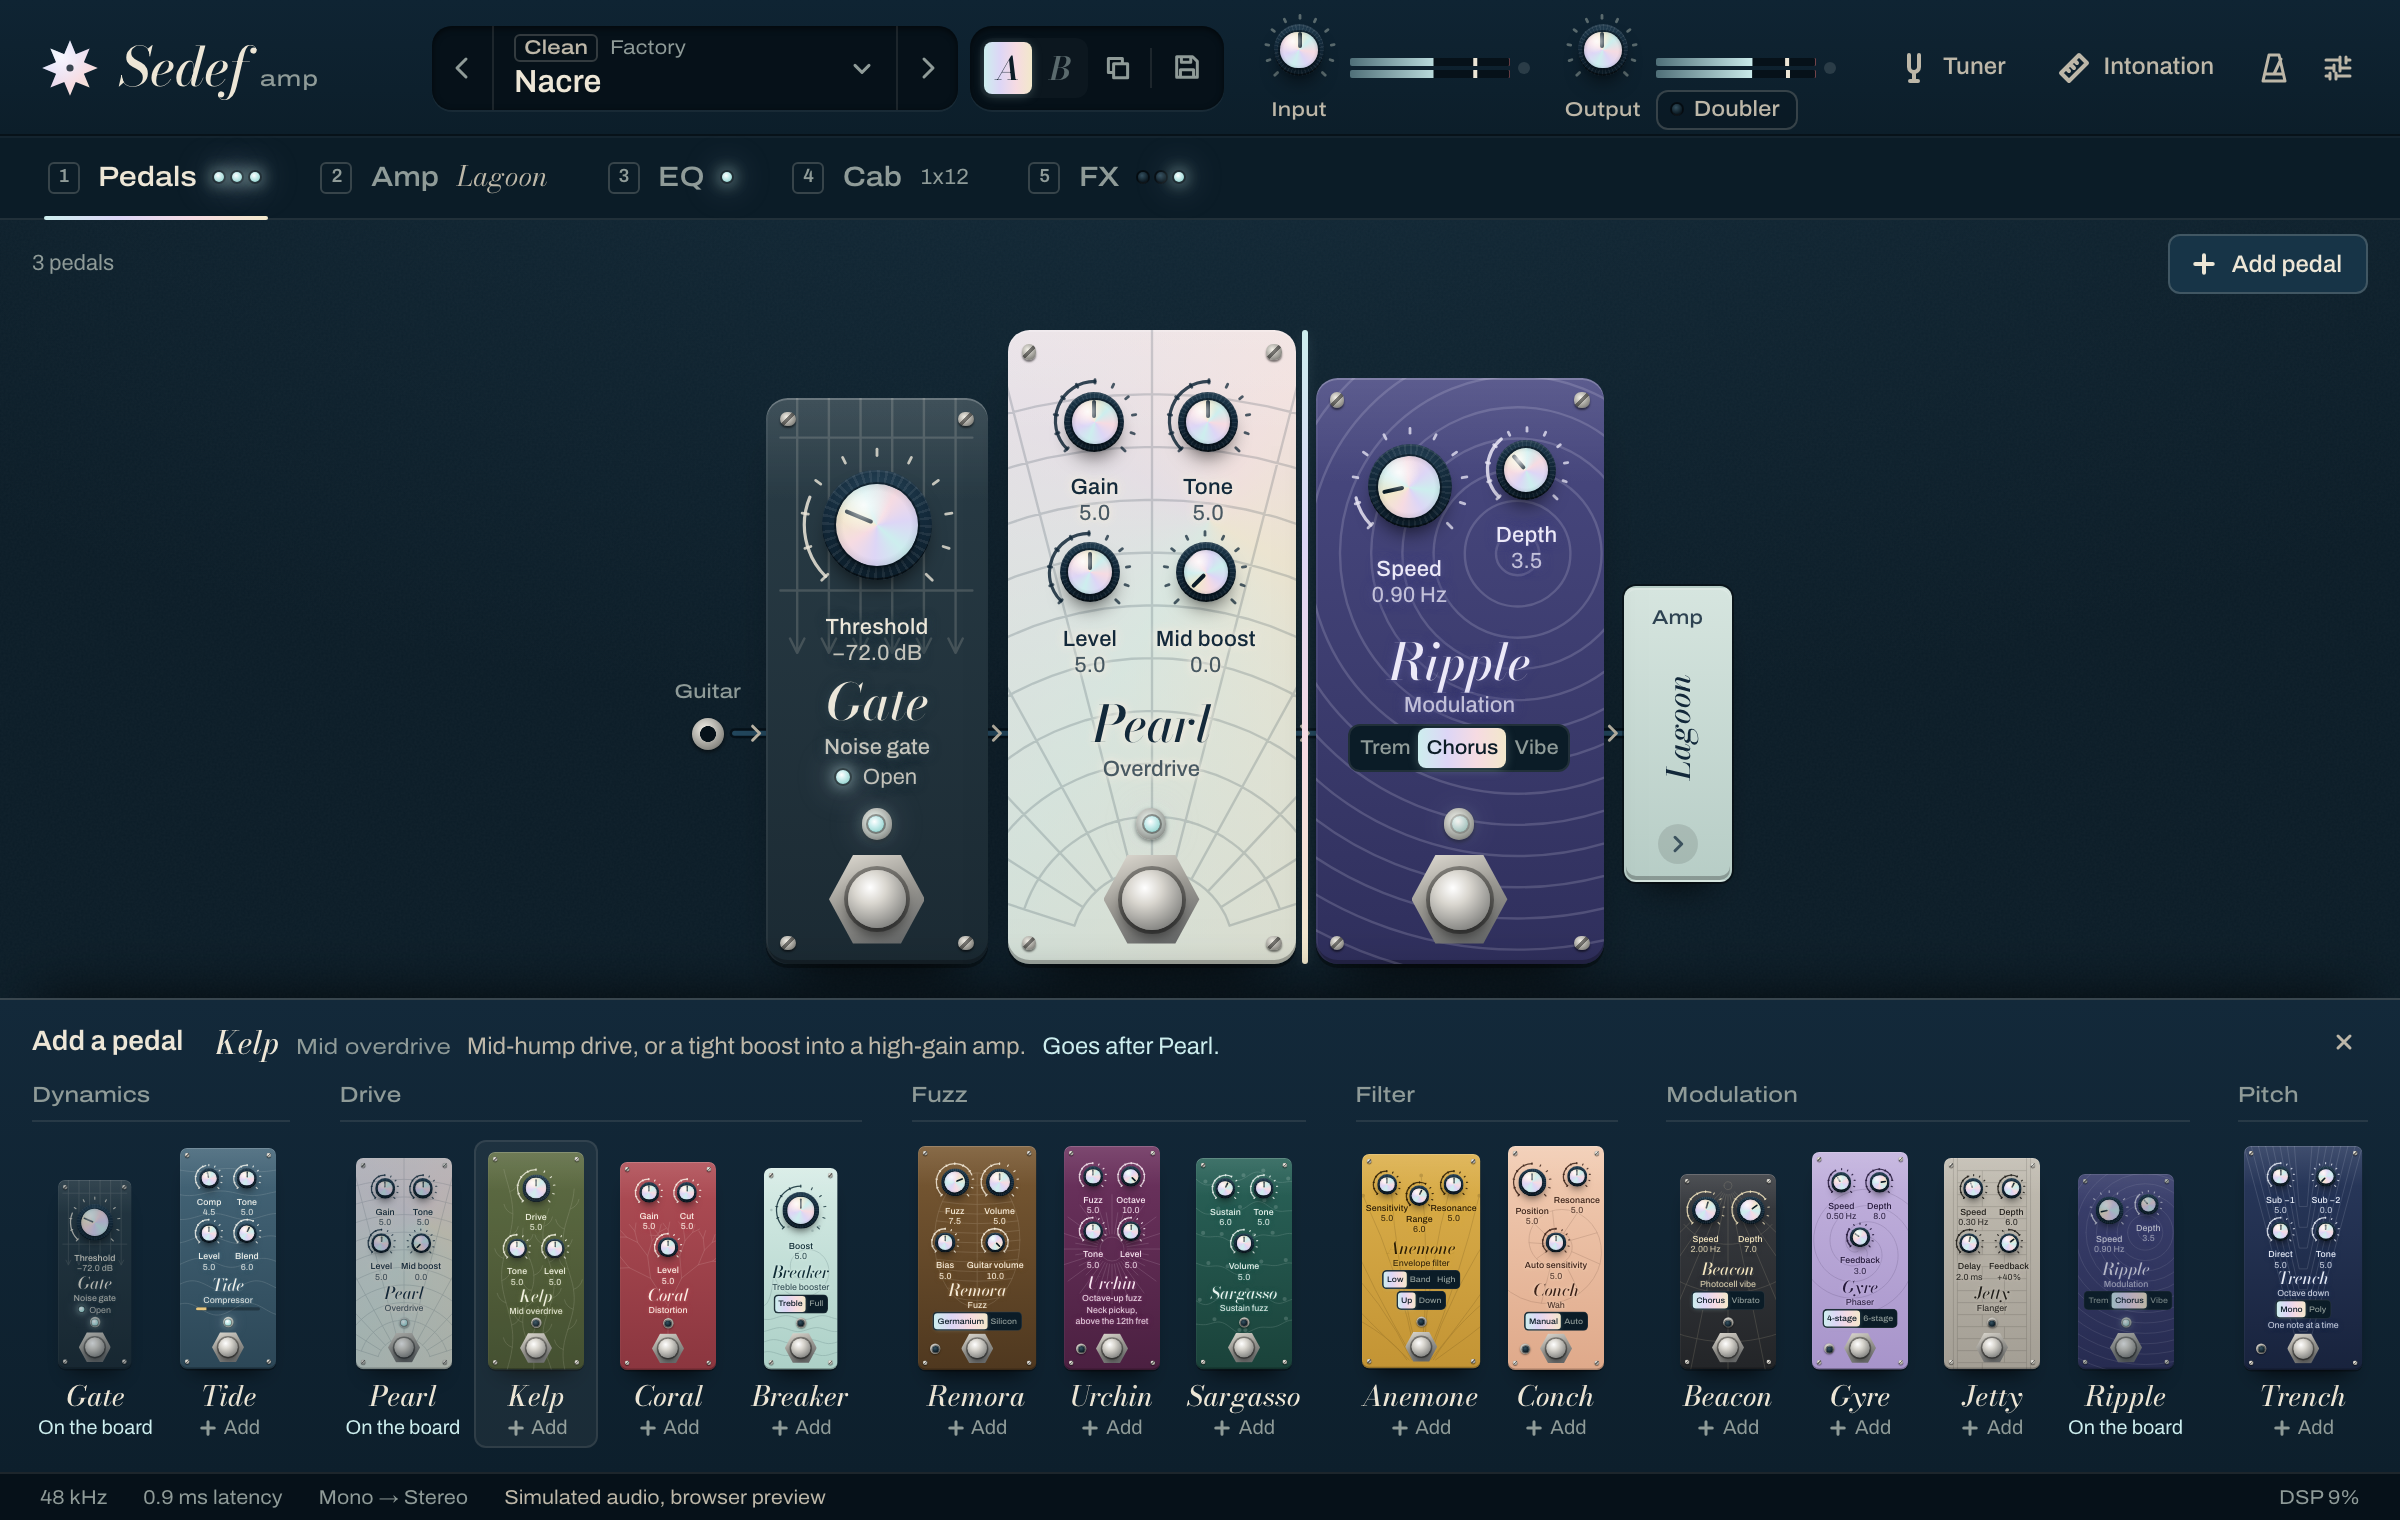
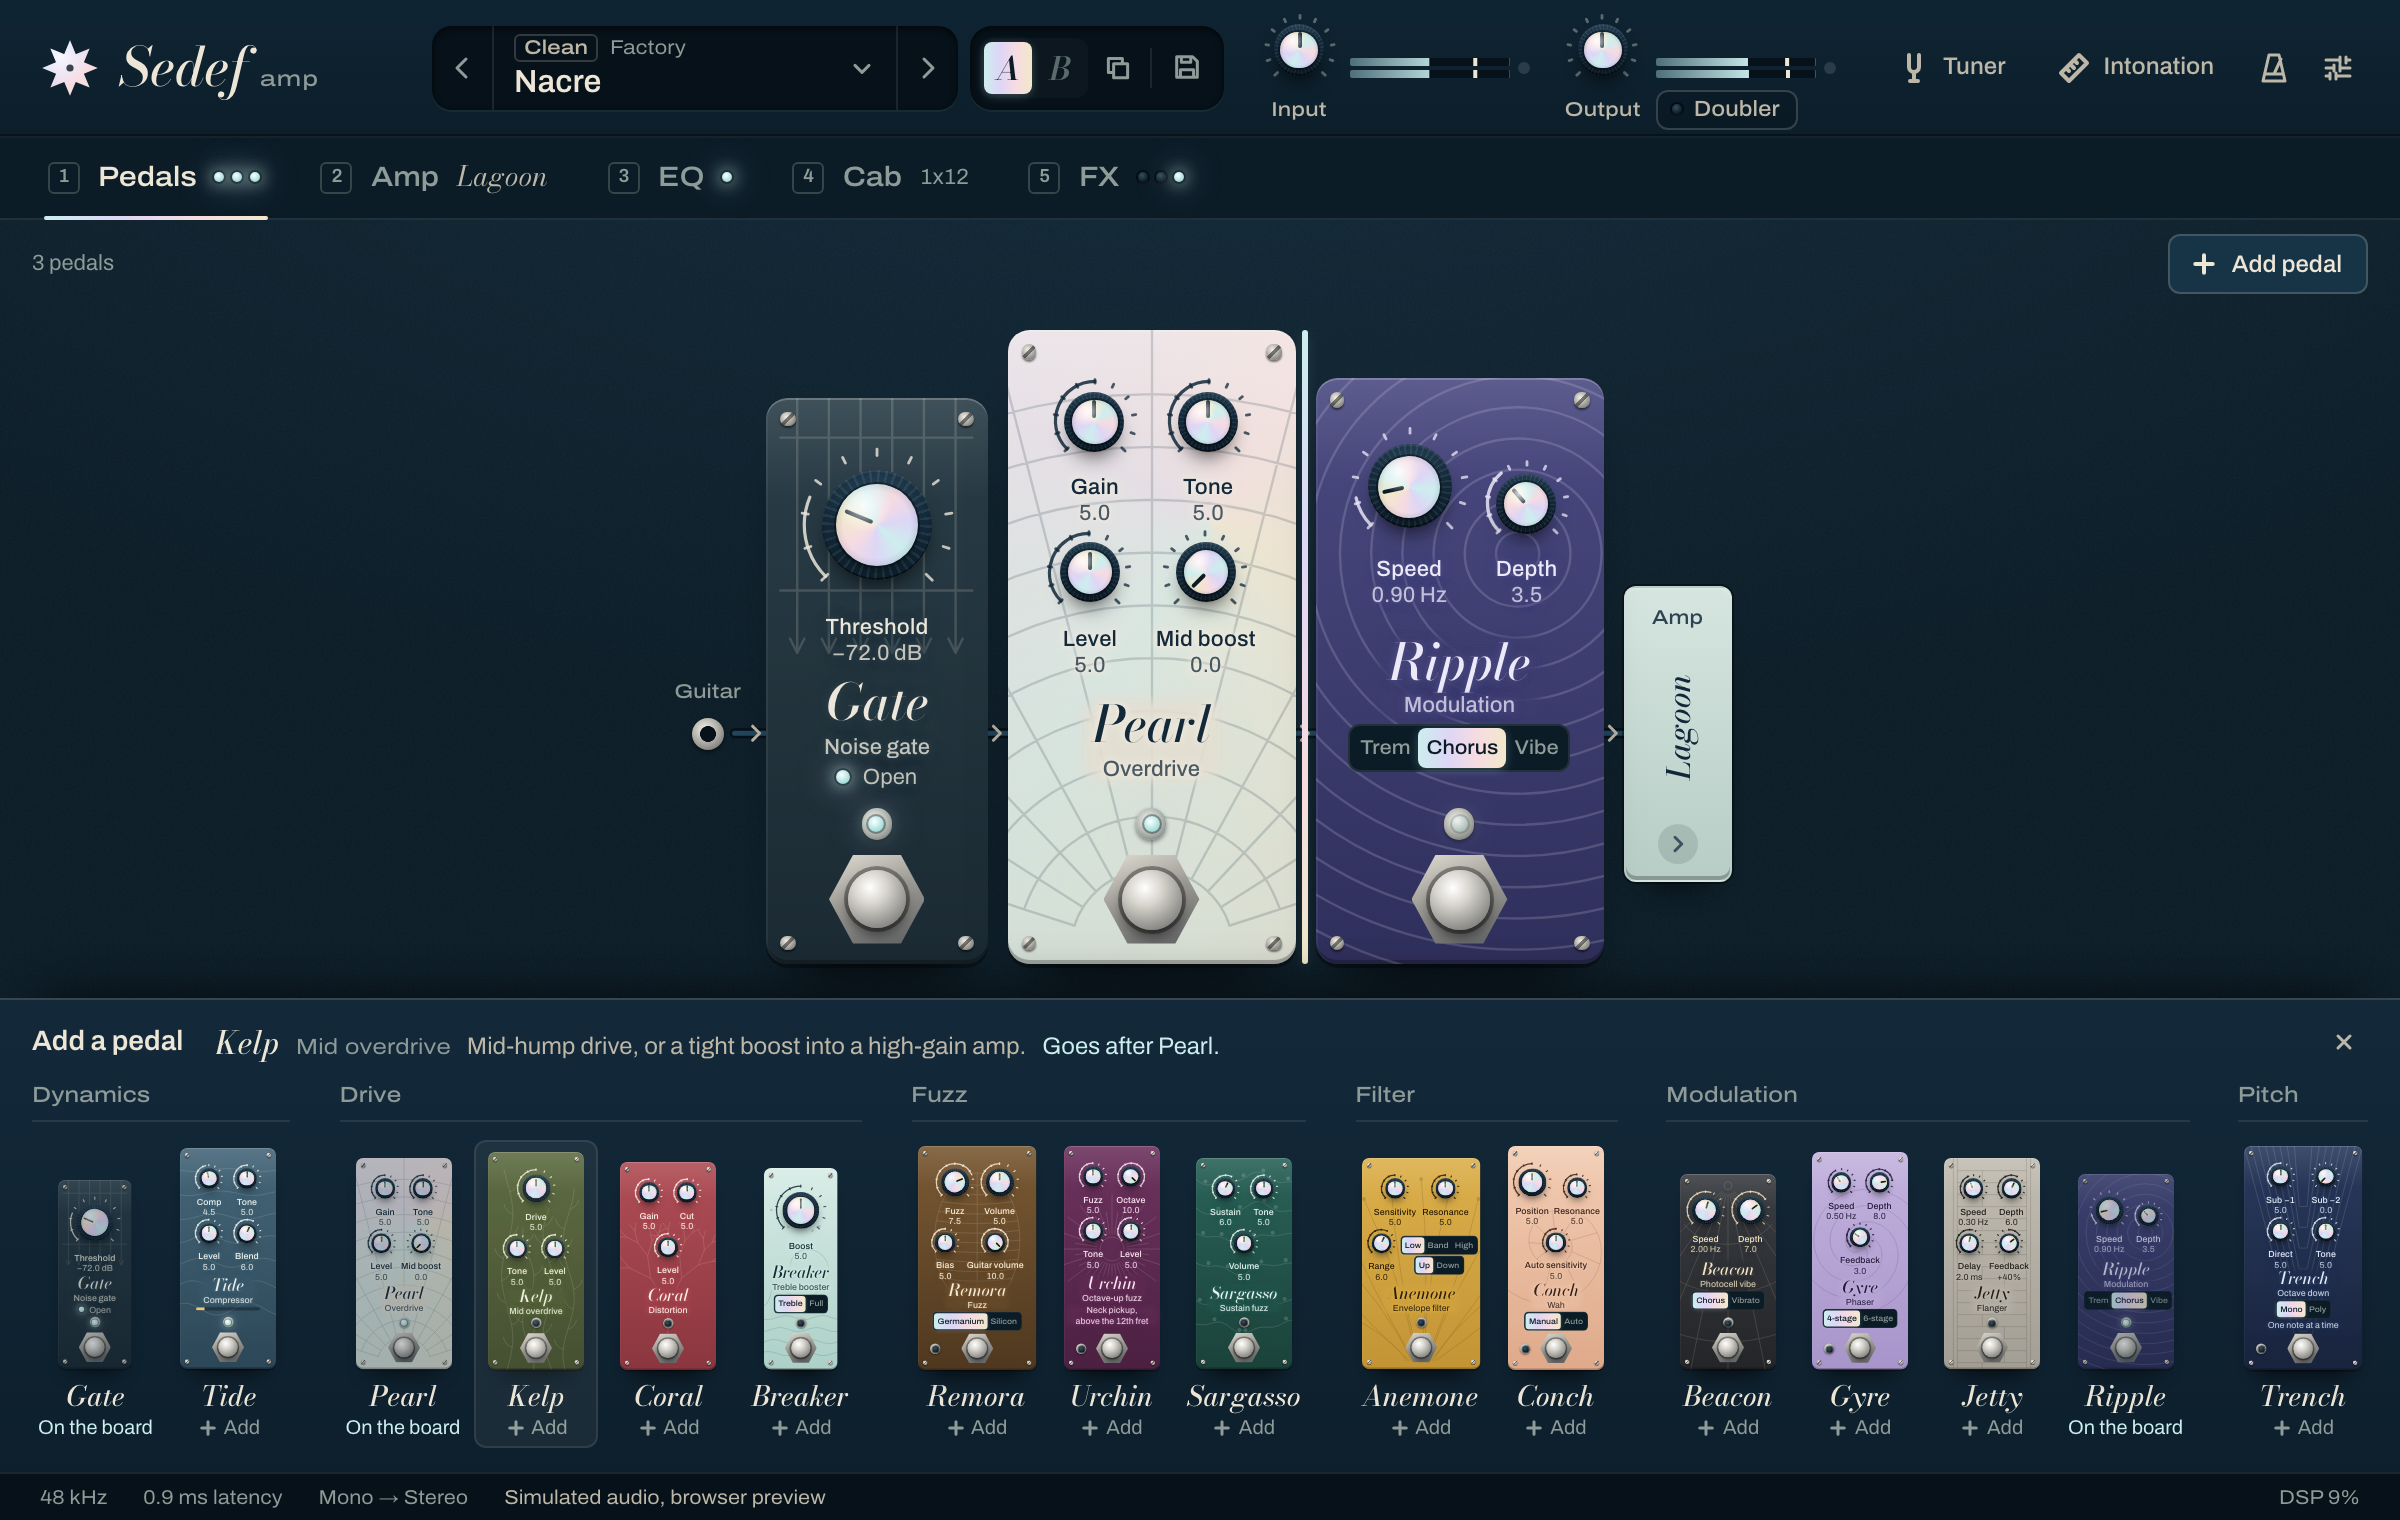
Pedals: Anemone's switches beside its third knob, paired knobs on one line, names on a patch of paint
Anemone's three labels no longer meet: Sensitivity and Resonance on top, Range with
the two switches beside it. A big and a normal knob in one row stand on one line, so
their labels and values read across (Conch, Ripple). The name, kind and hint stand
on a soft patch of the paint, so a figure whose lines run along the lettering fades
out under it at every scale.

Changed region(s): [[0.5625, 0.7421, 0.6875, 0.8658], [0.5938, 0.2783, 0.6562, 0.402], [0.875, 0.773, 0.9062, 0.8039]]

diff --git a/ui/src/features/pedals/Pedal.module.css b/ui/src/features/pedals/Pedal.module.css
@@ -83,14 +83,12 @@
   width: 100%;
 }
 
-/* Two big knobs, or a knob and a lever: closer than an even spread would put them. */
+/* Two knobs of different sizes: closer than an even spread would put them, and standing on one
+   line, so their labels and values read across. */
 .tight {
   justify-content: center;
+  align-items: flex-end;
   gap: calc(6 * var(--u));
-}
-
-.arc > :nth-child(2) {
-  margin-top: calc(14 * var(--u));
 }
 
 /* A knob takes the room of its dial; its label may hang over into the gap beside it. */
@@ -104,8 +102,24 @@
 }
 
 .identity {
+  isolation: isolate;
   margin-top: auto;
   text-align: center;
+}
+
+/* The name stands on a soft patch of the paint: a figure whose lines run along the lettering
+   (waves, strands) fades out under it, where a halo alone leaves them between the letters. */
+.identity::before,
+.hint::before {
+  content: '';
+  position: absolute;
+  z-index: -1;
+  inset: 0 calc(-4 * var(--u));
+  border-radius: calc(6 * var(--u));
+  background: var(--paint-top);
+  background: color-mix(in srgb, var(--paint-top), var(--paint-bottom));
+  filter: blur(3px);
+  opacity: 0.88;
 }
 
 .name {
@@ -130,6 +144,14 @@
   white-space: nowrap;
 }
 
+/* Switches stacked beside a knob, in its row (Anemone). */
+.pedal .row > .stack {
+  display: grid;
+  justify-items: center;
+  align-self: center;
+  row-gap: calc(3 * var(--u));
+}
+
 /* Switches, meters and the playing hint: one group under the name. */
 .status {
   display: grid;
@@ -149,6 +171,8 @@
   line-height: 1.15;
   text-align: center;
   text-wrap: balance;
+  position: relative;
+  isolation: isolate;
 }
 
 /* The lamp over the footswitch, at the bottom of the enclosure. */

diff --git a/ui/src/features/pedals/mods/AnemonePedal.tsx b/ui/src/features/pedals/mods/AnemonePedal.tsx
@@ -1,5 +1,5 @@
 // SPDX-License-Identifier: AGPL-3.0-or-later
-import { Pedal, PedalRow } from '../Pedal';
+import { Pedal, PedalRow, PedalStack } from '../Pedal';
 import { PedalKnob } from '../PedalKnob';
 import { PedalSwitch } from '../PedalSwitch';
 import { MODS_FINISH } from './finishes';
@@ -13,17 +13,17 @@ export function AnemonePedal() {
       kind="Envelope filter"
       enableParam="anemoneEnabled"
       finish={MODS_FINISH.anemone}
-      status={
-        <>
+    >
+      <PedalRow>
+        <PedalKnob param="anemoneSensitivity" label="Sensitivity" />
+        <PedalKnob param="anemoneResonance" label="Resonance" />
+      </PedalRow>
+      <PedalRow set="tight">
+        <PedalKnob param="anemoneRange" label="Range" />
+        <PedalStack>
           <PedalSwitch param="anemoneMode" labels={['Low', 'Band', 'High']} />
           <PedalSwitch param="anemoneDirection" />
-        </>
-      }
-    >
-      <PedalRow set="arc">
-        <PedalKnob param="anemoneSensitivity" label="Sensitivity" />
-        <PedalKnob param="anemoneRange" label="Range" />
-        <PedalKnob param="anemoneResonance" label="Resonance" />
+        </PedalStack>
       </PedalRow>
     </Pedal>
   );

diff --git a/ui/src/features/pedals/Pedal.tsx b/ui/src/features/pedals/Pedal.tsx
@@ -36,12 +36,14 @@ export interface PedalProps {
   lamp?: 'above' | 'beside';
 }
 
-/**
- * One row of an enclosure's controls. `tight` keeps two big knobs close; `arc` drops the middle
- * of three, so their labels sit on two lines and long ones do not meet.
- */
-export function PedalRow({ children, set }: { children: ReactNode; set?: 'tight' | 'arc' }) {
+/** One row of an enclosure's controls. `tight` keeps two close, standing on one line. */
+export function PedalRow({ children, set }: { children: ReactNode; set?: 'tight' }) {
   return <div className={set ? `${styles.row} ${styles[set]}` : styles.row}>{children}</div>;
+}
+
+/** Switches stacked in a row, beside a knob. */
+export function PedalStack({ children }: { children: ReactNode }) {
+  return <div className={styles.stack}>{children}</div>;
 }
 
 /**

diff --git a/ui/src/features/pedals/sizes.ts b/ui/src/features/pedals/sizes.ts
@@ -28,7 +28,7 @@ export const PEDAL_BOX = {
   tide: regular(276),
   urchin: regular(280),
   conch: regular(280),
-  anemone: wide(268),
+  anemone: wide(264),
   trench: wide(280),
   remora: wide(280),
 } as const satisfies Record<string, PedalBox>;
